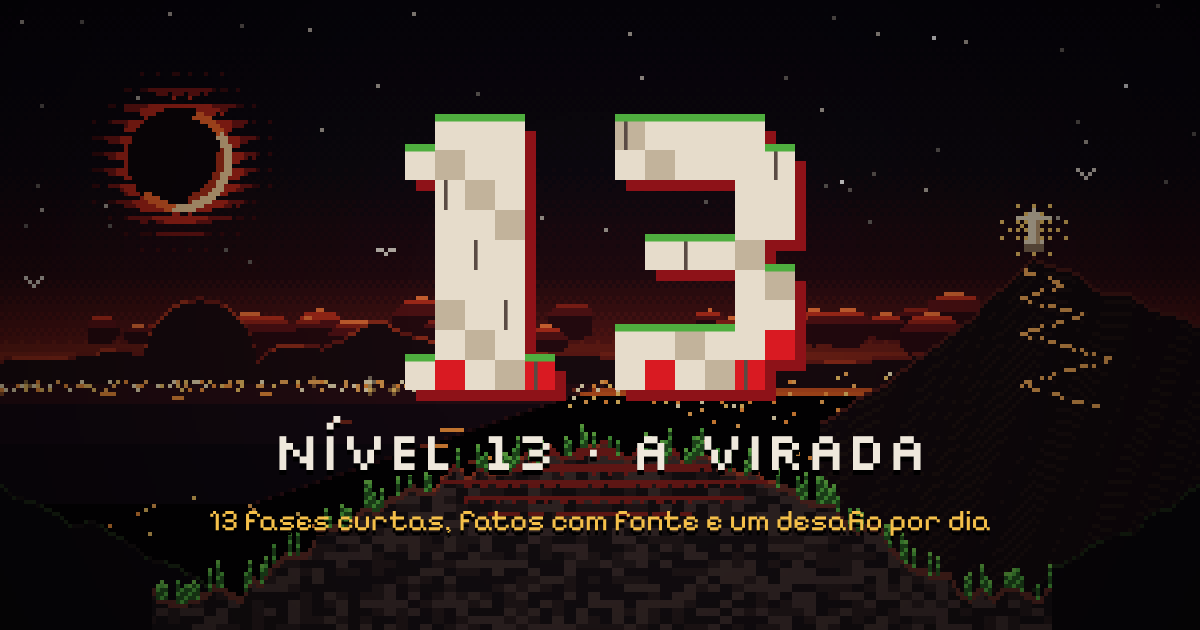
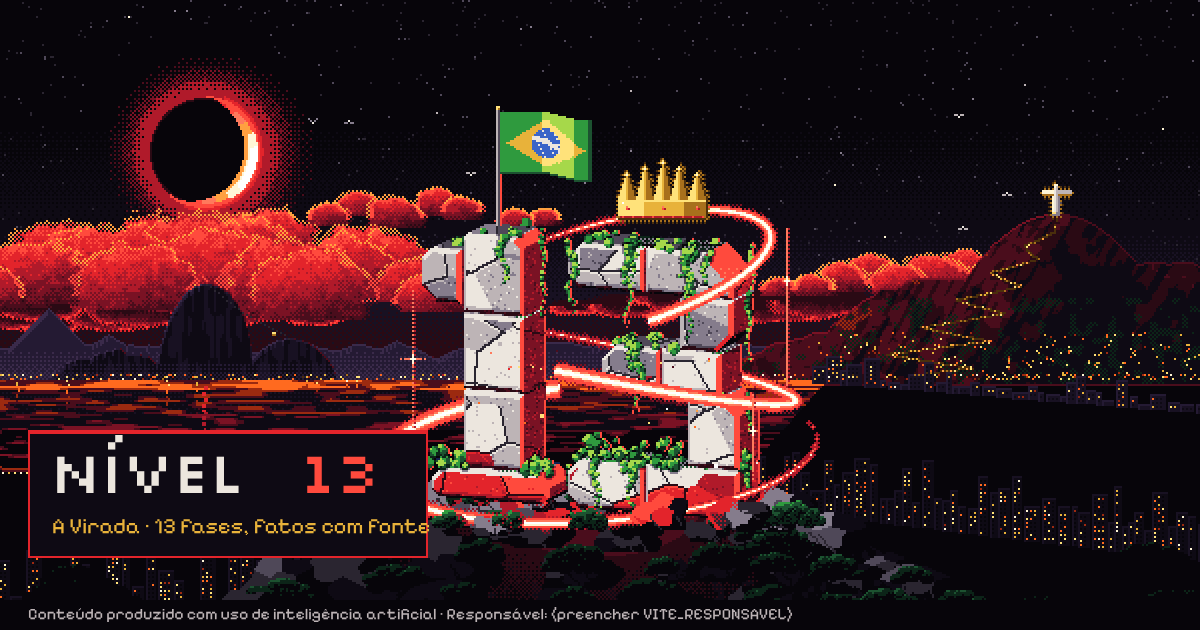
Motor: subpassos em aparelho lento

diff --git a/src/viral/viral.css b/src/viral/viral.css
@@ -2,7 +2,18 @@
    Prefixo cx-. Só variáveis da paleta (src/ui/global.css). Pixel: bordas em degrau por box-shadow,
    sem raio, sem blur. Movimento em degraus (steps), 120 a 220 ms; reduzido = corte seco. */
 
+/* Algarismos do Silkscreen dentro do texto: o "5" do Pixelify Sans lê como "S" nos tamanhos de corpo,
+   e este é um jogo de números. Só os dígitos trocam de fonte (unicode-range). */
+@font-face {
+  font-family: "cx-digits";
+  src: url("../../node_modules/@fontsource/silkscreen/files/silkscreen-latin-400-normal.woff2") format("woff2");
+  unicode-range: U+0030-0039;
+  size-adjust: 88%;
+  font-display: swap;
+}
 .cx-scr {
+  --f-text: "cx-digits", "Pixelify Sans", system-ui, sans-serif;
+  font-family: var(--f-text);
   --hair: 2px;
   --cx-w: 600px;
   --cx-frame: var(--stone-3);
@@ -108,7 +119,7 @@
   background: var(--gold-1);
 }
 .cx-pips i.is-low {
-  background: var(--crimson-deep);
+  background: var(--stone-2);
 }
 .cx-hud-r {
   text-align: right;
@@ -721,9 +732,10 @@
   --t-lo: var(--gold-0);
 }
 .cx-tile--low {
-  --t-fill: var(--crimson-deep);
-  --t-hi: var(--crimson);
-  --t-lo: var(--blood-0);
+  /* erro é de todo mundo: pedra neutra, nunca vermelho de fracasso */
+  --t-fill: var(--stone-1);
+  --t-hi: var(--stone-2);
+  --t-lo: var(--stone-0);
 }
 
 /* efeitos */
@@ -886,14 +898,46 @@
 }
 
 .cx-share {
+  padding: 16px;
   display: flex;
   flex-direction: column;
   gap: 14px;
 }
+.cx-share h2 {
+  margin: 0;
+  font-family: var(--f-hud);
+  font-weight: 400;
+  font-size: 12px;
+  letter-spacing: 0.14em;
+  text-transform: uppercase;
+  color: var(--red-hot);
+}
+.cx-share-sub {
+  margin: -6px 0 2px;
+  font-size: 15px;
+  line-height: 1.35;
+  color: var(--stone-3);
+}
 .cx-share-row {
   display: grid;
-  grid-template-columns: repeat(auto-fit, minmax(96px, 1fr));
+  grid-template-columns: repeat(auto-fit, minmax(90px, 1fr));
   gap: 14px;
+}
+.cx-share-row .btn {
+  white-space: nowrap;
+  padding-inline: 8px;
+  font-size: 13px;
+}
+.cx-next {
+  opacity: 0;
+  transform: translateY(6px);
+  transition:
+    opacity 0.16s steps(3),
+    transform 0.16s steps(3);
+}
+.cx-next.is-on {
+  opacity: 1;
+  transform: none;
 }
 
 /* duelo */

diff --git a/src/games/chefe.ts b/src/games/chefe.ts
@@ -3,6 +3,10 @@
 // (recua, abre a boca, olhos acendem, linha de mira) quando você erra ou o tempo acaba. O fato certo
 // destrói a cabeça: hit-stop de 180 ms com quadro branco → vermelho, explosão de papel, anel e tremor.
 // A última cabeça dispara a explosão em cascata do corpo.
+// Feel (números): 14 s por cabeça (barra acima dela); bote = antecipação 300 ms, avanço 80 ms com 2 silhuetas de
+// smear, recuperação 320 ms; o dano chega no contato. Cabeça certa: hit-stop 180 ms (branco 120 ms → vermelho),
+// clarão de impacto, explosão com 1 quadro branco e fumaça, 18 papéis, pescoço desaba. Fim: 11 estouros em 1,4 s,
+// depois impacto dourado, anel de 110 px e 8 brilhos. Pontos = 200 + até 120 pela rapidez.
 import { Container, Graphics, Sprite, type Texture } from 'pixi.js'
 import { stinger } from '../audio/audio'
 import type { GameCtx, MicroGame } from '../engine/types'
@@ -187,7 +191,7 @@ function bodyTex(w: number, h: number): Texture {
     const cy = h * 0.55
     // recortes empilhados: de trás (escuros) para a frente (claros)
     // massa escura por baixo: o corpo lê como uma coisa só
-    p.ellipse(Math.round(cx), Math.round(cy + 3), Math.round(w * 0.34), Math.round(h * 0.32), P.stone0)
+    p.ellipse(Math.round(cx), Math.round(cy + 2), Math.round(w * 0.24), Math.round(h * 0.26), P.stone0)
     p.ellipse(Math.round(cx), Math.round(cy + 4), Math.round(w / 3), Math.round(h / 4), P.blood1)
     p.ellipse(Math.round(cx), Math.round(cy + 4), Math.round(w / 6), Math.round(h / 8), P.crimsonDeep)
     const dens = (w * h) / 260
@@ -580,6 +584,8 @@ export default function chefe(): MicroGame {
       c.stage.addChild(root)
       bodyX = Math.round(c.W / 2)
       ui = el('div', { class: 'boss-ui' })
+      // ancora a interface logo acima das habilidades, qualquer que seja a altura do HUD
+      ui.style.bottom = `${Math.max(8, Math.round(innerHeight - c.bottom * c.css + 6))}px`
       c.layer.append(ui)
       heads = ROUNDS.map((_, i) => {
         const s = new Sprite(headTex(i, false, false))

diff --git a/src/games/linha.ts b/src/games/linha.ts
@@ -1,6 +1,9 @@
 // Fase 8 · O Julgamento: monte a linha do tempo da trama golpista, do mais antigo ao mais recente.
 // Cartas e trilho em DOM (.timeline-slots/.tl-card); em Pixi, a bancada do STF com o martelo do juiz,
 // que bate a cada acerto (antecipação, smear, quadro de impacto sob hit-stop, onda de choque).
+// Feel (números): martelo = antecipação 90 ms → smear 30 ms → impacto com hit-stop 90 ms, tremor vertical 2 px,
+// anéis 30/16 px, 8 lascas; balança em mola (k 40, amortecimento 6/s), chute -0,6 no acerto e +1,6 no erro.
+// Sem tempo (duration 0): pontos = max(60, 160 − 10 × erros) por evento; sequência sem erro sobe a cor do número.
 import { Container, Graphics, Sprite } from 'pixi.js'
 import type { GameCtx, MicroGame } from '../engine/types'
 import { shuffle } from '../lib/rng'
@@ -456,8 +459,18 @@ export default function linha(): MicroGame {
         return b
       })
       grid.append(...cards)
-      grid.style.top = `${(c.top + 8) * c.css + 64}px`
+      // tela estreita: o trilho quebra em 2 linhas de 3 para as datas caberem sem cortar
+      if (innerWidth < 520) {
+        rail.style.flexWrap = 'wrap'
+        rail.style.rowGap = '6px'
+        for (const sl of slots) {
+          sl.style.flex = '1 0 30%'
+          sl.style.minWidth = '0'
+          sl.style.minHeight = '34px'
+        }
+      }
       c.layer.append(rail, grid)
+      grid.style.top = `${Math.round(rail.getBoundingClientRect().bottom + 10)}px`
 
       layoutScene()
       const area = { x0: 0, y0: blockY - 60, x1: c.W, y1: c.bottom }

diff --git a/src/share/cards.ts b/src/share/cards.ts
@@ -684,7 +684,16 @@ async function cardChute(c: Card, m: Extract<Moment, { kind: 'chute' }>) {
   vignette(c, st ? 140 : 95, sc.base - 2, 0.88)
   foreground(c)
   let y = c.y0 + (st ? 2 : 0)
+  const ty0 = y
   y = tag(c, `CHUTA AÍ #${m.n}`, y)
+  // sequência: fogo + dias, à direita da faixa
+  const streak = getSave().daily.streak
+  if (streak > 1) {
+    const fire = sprite('fogo')
+    const sw = silkWidth(String(streak))
+    c.g.drawImage(fire, c.x1 - sw - fire.width - 2, ty0 - 3)
+    text(c.g, String(streak), c.x1, ty0, small(['emberBright', 'ember']), { align: 'right' })
+  }
   // total gigante em ouro + "/1.300" menor, alinhados pela base
   const tot = fmtInt(m.total)
   const den = `/${fmtInt(MAX_TOTAL)}`
@@ -709,15 +718,6 @@ async function cardChute(c: Card, m: Extract<Moment, { kind: 'chute' }>) {
   y += size + 6
   for (const l of wrap(chuteHook(m.s, m.theme, false).toLocaleUpperCase('pt-BR'), c.x1 - c.x0))
     y = head(c, l, y, WHITE, 1)
-  const streak = getSave().daily.streak
-  if (streak > 1) {
-    const s = `${streak} DIAS`
-    const fire = sprite('fogo')
-    const w = silkWidth(s) + fire.width + 3
-    const fx = Math.round(c.cx - w / 2)
-    c.g.drawImage(fire, fx, y - 2)
-    text(c.g, s, fx + fire.width + 3, y + 1, small(['emberBright', 'ember']))
-  }
   footer(c, { cta: 'QUANTO VOCÊ CHUTA? JOGUE:', link: chuteLink(m.n, false) })
 }
 

diff --git a/src/viral/ChuteResult.tsx b/src/viral/ChuteResult.tsx
@@ -71,7 +71,7 @@ export function ChuteResult({
       clearTimeout(t)
       clearTimeout(st)
     }
-  }, [fresh])
+  }, [fresh, streak])
 
   const hookTheme = useMemo(() => {
     let worst = -1
@@ -191,19 +191,16 @@ export function ChuteResult({
         />
       )}
 
-      <motion.section className="cx-share" aria-labelledby="cx-share-h" variants={rise}>
-        <h2 id="cx-share-h" className="sr-only">
-          Compartilhar
-        </h2>
+      <motion.section className="cx-share pf pf--hud" aria-labelledby="cx-share-h" variants={rise}>
+        <h2 id="cx-share-h">Desafie a família</h2>
+        <p className="cx-share-sub">Sem spoiler: vai a grade e uma pergunta. Quem recebe chuta antes de abrir.</p>
         <PixelButton tone="red" size="big" wide onClick={() => void share('group')}>
           Mandar no grupo
         </PixelButton>
         <div className="cx-share-row">
           {!duel && <PixelButton onClick={() => void share('duel')}>Tira-teima</PixelButton>}
           <PixelButton onClick={() => setCard(true)}>Card</PixelButton>
-          <PixelButton tone="ghost" onClick={() => void copy()}>
-            Copiar
-          </PixelButton>
+          <PixelButton onClick={() => void copy()}>Copiar</PixelButton>
         </div>
       </motion.section>
 

diff --git a/src/share/hero.ts b/src/share/hero.ts
@@ -34,7 +34,12 @@ function findHero() {
     }
     return null
   })()
-  return heroFn
+  const p = heroFn
+  // falha não fica em cache: o módulo pode estar só sendo recarregado
+  void p.then((fn) => {
+    if (!fn && heroFn === p) heroFn = null
+  })
+  return p
 }
 
 export interface Still {
@@ -134,9 +139,16 @@ export function heroStill(w: number, h: number, o: HeroOpts = {}): Promise<Still
   const key = `${forced() ?? ''}|${w}x${h}|${o.progress ?? 1}|${o.crown ? 1 : 0}|${o.monument === false ? 0 : 1}`
   let p = cache.get(key)
   if (!p) {
-    p = renderStill(w, h, o)
-    cache.set(key, p)
-    p.catch(() => cache.delete(key))
+    const made = renderStill(w, h, o)
+    p = made
+    cache.set(key, made)
+    // o degrau local não fica em cache: na próxima, tenta o still do diretor de arte de novo
+    made.then(
+      (st) => {
+        if (st.kind !== 'hero' && cache.get(key) === made) cache.delete(key)
+      },
+      () => cache.delete(key),
+    )
   }
   return p
 }

diff --git a/src/games/escudo.ts b/src/games/escudo.ts
@@ -1,6 +1,10 @@
 // Fase 11 · Soberania: gire o escudo em volta do Brasil e bloqueie tarifas e sanções.
 // Brasil em pixels (cores da bandeira) no centro, arco de escudo dourado com brilho em 3 camadas,
 // setas de tarifa com rastro de energia e aviso na borda antes de entrarem. Bloqueio perfeito solta ouro.
+// Feel (números), curva ramp(): intervalo max(0,42, 1,08 − 0,62k) s; velocidade 44 + 40k (+0..14) px/s; dispersão
+// 0,8 + 1,2k rad em volta do nordeste (70% → 50%). Arco 1,25 rad + 0,1 rad de folga; a seta ainda pode ser bloqueada
+// por 50 ms (3 quadros) depois de cruzar o raio. Perfeito (centro 18% do arco): +45, hit-stop 60 ms; normal +30;
+// sequência +2 por passo (até +20). Aviso pisca na borda da arena enquanto a seta está fora.
 import { Container, Graphics, Sprite, type Texture } from 'pixi.js'
 import { inBrazil, LAT0, LAT1, LON0, LON1 } from '../content/brazil'
 import type { GameCtx, MicroGame } from '../engine/types'

diff --git a/src/viral/Reveal.tsx b/src/viral/Reveal.tsx
@@ -28,13 +28,13 @@ export function ScoreTile({
   label?: string
 }) {
   const t = tier(s)
-  return (
-    <span
-      className={`cx-tile cx-tile--${t} cx-tile--${size}`}
-      role={label ? 'img' : undefined}
-      aria-label={label}
-      aria-hidden={label ? undefined : true}
-    >
+  const cls = `cx-tile cx-tile--${t} cx-tile--${size}`
+  return label ? (
+    <span className={cls} role="img" aria-label={label}>
+      {t === 'bull' && <i />}
+    </span>
+  ) : (
+    <span className={cls} aria-hidden="true">
       {t === 'bull' && <i />}
     </span>
   )
@@ -127,7 +127,7 @@ export function Reveal({
       )}
       {crowd && (
         <motion.div className="cx-crowd" variants={rise}>
-          <Histogram hist={crowd.hist} mine={mine} />
+          {round.kind === 'number' ? <Histogram hist={crowd.hist} mine={mine} /> : <span />}
           <p>
             <span className="cx-crowd-k">Brasil chutou</span> {crowd.text}
           </p>

diff --git a/src/games/raiox.ts b/src/games/raiox.ts
@@ -1,6 +1,10 @@
 // Fase 10 · Raio-X: as malas passam pelo scanner; segure só as que trazem joias.
 // Dentro da janela do scanner a mala vira raio-X (azul da paleta, linhas de varredura); joia aparece
 // como objeto denso e brilhante. Mala retida sobe com squash, carimbo "RETIDA" e hit-stop.
+// Feel (números), curva ramp() de kit-b (10 s fáceis, pico aos 70%): esteira 26 → 56 px/s; intervalo entre malas
+// (0,95..1,85 s) × (1 − 0,42 × k); 34% com joia. Toque: ±6 px na horizontal e toda a altura do scanner.
+// Retida: carimbo 80 ms depois (antecipação), hit-stop 100 ms, tremor vertical, mala sobe 46 px em 550 ms com
+// stretch 0,87 × 1,15; joia voa ao painel em 380 ms. Sequência de joias: +5 por passo (até +30). Mala limpa: −30.
 import { Container, Graphics, Sprite, type Text } from 'pixi.js'
 import type { GameCtx, MicroGame } from '../engine/types'
 import {

diff --git a/src/app/screens/Map.tsx b/src/app/screens/Map.tsx
@@ -139,7 +139,7 @@ export default function JourneyScreen() {
         aria-label="Mapa do Brasil com as 13 fases"
         onPointerDown={onCanvas}
       />
-      <div className="topbar">
+      <div className="topbar" style={{ position: 'fixed', zIndex: 2 }}>
         <PixelButton tone="ghost" size="sm" commit="back" onClick={() => go('title')}>
           ← Início
         </PixelButton>
@@ -161,7 +161,11 @@ export default function JourneyScreen() {
         </span>
       </div>
       {l && (
-        <section className="map-panel pf pf--red" aria-live="polite">
+        <section
+          className="map-panel pf pf--red"
+          aria-live="polite"
+          style={{ position: 'fixed', top: 'auto', bottom: 'calc(14px + var(--safe-b, 0px))', zIndex: 2 }}
+        >
           <div>
             <div className="lvl">Fase {l.n} de 13</div>
             <h3>{l.title}</h3>

diff --git a/src/games/pegar.ts b/src/games/pegar.ts
@@ -1,6 +1,10 @@
 // Fase 12 · Farmácia Popular: pegue os remédios e as casas; deixe o boato cair no chão.
 // Cesta com squash no pegar, sombras no chão que mostram onde cada item vai cair, boato piscando
 // em vermelho e balançando (dá para reconhecer pelo movimento), prateleiras de farmácia ao fundo.
+// Feel (números), curva ramp(t, 25, 8): intervalo 0,62 − 0,3k s; queda 40 + 45k (+0..20) px/s; boato 18% → 28%.
+// Cesta: alvo segue o dedo com lerp 16/s, teclado 170 px/s; pega com ±19 px (2 px de folga); boato só conta após
+// 50 ms dentro da cesta. Squash 1,2 × 0,8 por 60 ms e volta em 120 ms (ease-out-back). Sequência: +1 por passo
+// (até +15), a cada 5 um anel de 22 px e tremor vertical.
 import { Container, Graphics, Sprite, type Texture } from 'pixi.js'
 import type { GameCtx, MicroGame } from '../engine/types'
 import {

diff --git a/src/games/memoria.ts b/src/games/memoria.ts
@@ -1,6 +1,9 @@
 // Fase 9 · Siga o Dinheiro: jogo da memória ligando cada ano ao fato documentado.
 // Cartas em DOM (.grid-cards/.mcard) sobre um quadro de cortiça em Pixi; cada par certo é ligado por um
 // barbante vermelho e uma trilha de moedas pixel que corre pelos vãos entre as cartas.
+// Feel (números): virada em degraus 90 ms + 120 ms; par certo = hit-stop 70 ms, pulso dourado 420 ms, anel do
+// tamanho da carta, 6 moedas a 150 px/s pelo barbante (uma a cada 50 ms); erro desvira em 850 ms e tira coração a
+// cada 4 erros. 80 s; vence com 4 pares. Pontos = max(80, 170 − 8 × erros) por par.
 import { Container, Graphics, Sprite } from 'pixi.js'
 import type { GameCtx, MicroGame } from '../engine/types'
 import { shuffle } from '../lib/rng'
